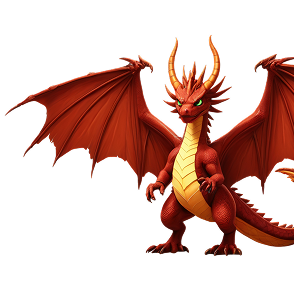
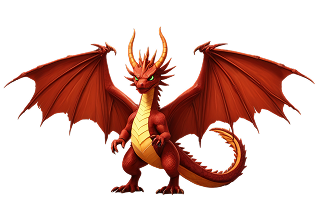
update container

diff --git a/src/partials/header.html b/src/partials/header.html
@@ -65,41 +65,43 @@
 
 <div class="burger-backdrop">
   <div class="burger-menu">
-    <div class="menu-blur"></div>
-    <button class="menu-close-btn" type="button">
-      <svg
-        class="menu-btn-icon"
-        role="img"
-        aria-label="button-close"
-        width="14"
-        height="14"
-      >
-        <use href="./img/icon/sprite.svg#icon-close"></use>
-      </svg>
-    </button>
-    <nav>
-      <ul class="menu-list">
-        <li class="menu-item">
-          <a href="#benefits" class="menu-link">Benefits</a>
-        </li>
-        <li class="menu-item">
-          <a href="#game-description" class="menu-link">Game Description</a>
-        </li>
-        <li class="menu-item">
-          <a href="#gallery" class="menu-link">Gallery</a>
-        </li>
-        <li class="menu-item">
-          <a href="#key-features" class="menu-link">Key Features</a>
-        </li>
-        <li class="menu-item">
-          <a href="#main-characters-description" class="menu-link"
-            >Main Characters Description</a
-          >
-        </li>
-        <li class="menu-item">
-          <a href="#reviews" class="menu-link">Reviews</a>
-        </li>
-      </ul>
-    </nav>
+    <div class="burger-menu-container">
+      <div class="menu-blur"></div>
+      <button class="menu-close-btn" type="button">
+        <svg
+          class="menu-btn-icon"
+          role="img"
+          aria-label="button-close"
+          width="14"
+          height="14"
+        >
+          <use href="./img/icon/sprite.svg#icon-close"></use>
+        </svg>
+      </button>
+      <nav>
+        <ul class="menu-list">
+          <li class="menu-item">
+            <a href="#benefits" class="menu-link">Benefits</a>
+          </li>
+          <li class="menu-item">
+            <a href="#game-description" class="menu-link">Game Description</a>
+          </li>
+          <li class="menu-item">
+            <a href="#gallery" class="menu-link">Gallery</a>
+          </li>
+          <li class="menu-item">
+            <a href="#key-features" class="menu-link">Key Features</a>
+          </li>
+          <li class="menu-item">
+            <a href="#main-characters-description" class="menu-link"
+              >Main Characters Description</a
+            >
+          </li>
+          <li class="menu-item">
+            <a href="#reviews" class="menu-link">Reviews</a>
+          </li>
+        </ul>
+      </nav>
+    </div>
   </div>
 </div>

diff --git a/src/scss/header.scss b/src/scss/header.scss
@@ -12,14 +12,14 @@
   flex-direction: row;
   align-items: center;
   justify-content: start;
-  min-width: 320px;
+  max-width: 320px;
   margin: 0 auto;
   padding: 16px 24px;
 
   @include media(desktop) {
     justify-content: flex-start;
     gap: 45.6px;
-    width: 1200px;
+    max-width: 1200px;
     padding: 24px 32px 32px 32px;
   }
 }
@@ -106,8 +106,6 @@
   height: 100vh;
   visibility: hidden;
 
-  padding: 88px 24px 16px 24px;
-
   background-color: aliceblue;
 
   transform: translateX(100%);
@@ -123,7 +121,11 @@
     background-image: url('../img/img/header/image_26@2x.png');
   }
 }
-
+.burger-menu-container {
+  padding: 88px 24px 16px 24px;
+  max-width: 320px;
+  margin: 0 auto;
+}
 .menu-blur {
   position: absolute;
   top: 0;

diff --git a/src/scss/hero.scss b/src/scss/hero.scss
@@ -63,7 +63,7 @@
 .hero-container {
   position: relative;
 
-  min-width: 320px;
+  max-width: 320px;
   margin: 0 auto;
   padding: 85px 24px 16px 24px;
 
@@ -71,9 +71,9 @@
     display: flex;
     flex-direction: column;
     align-items: flex-start;
-    width: 100%;
+
     max-width: 1200px;
-    margin: 0 auto;
+
     padding: 170px 128px 72px;
   }
 }
@@ -159,6 +159,7 @@
 
 .hero-btn:hover,
 .hero-btn:focus {
+  transform: scale(1.02);
   color: $_hero_btn_text_hover_active;
   background-color: $_hero_btn_bg_hover;
 }

diff --git a/src/scss/benefits.scss b/src/scss/benefits.scss
@@ -1,11 +1,7 @@
 .benefits {
   position: relative;
 
-  width: 100%;
-
   background: $_benefits_background;
-
-  overflow: hidden;
 }
 
 .benefits-scroll {
@@ -24,7 +20,8 @@
 }
 .benefits-container {
   position: relative;
-  min-width: 320px;
+
+  max-width: 320px;
   margin: 0 auto;
   padding: 24px;
 
@@ -181,8 +178,8 @@
 .benefits-dragon {
   position: absolute;
   right: 0;
-  bottom: 80px;
-  width: 200px;
+  bottom: 130px;
+  width: 159px;
   height: auto;
 
   @include media(desktop) {

diff --git a/src/scss/game-description.scss b/src/scss/game-description.scss
@@ -18,9 +18,9 @@
 }
 
 .game-description-container {
-  min-width: 320px;
+  max-width: 320px;
   margin: 0 auto;
-  padding: 24.2px;
+  padding: 24px;
 
   background-image: url('../img/img/game_description/Game_Description_BG_mobile.png');
   background-repeat: no-repeat;
@@ -39,9 +39,8 @@
     }
   }
   @include media(desktop) {
-    width: 100%;
     max-width: 1200px;
-    margin: 0 auto;
+
     padding-top: 80px;
     padding-bottom: 80px;
     padding-left: 129px;

diff --git a/src/scss/main-characters-description.scss b/src/scss/main-characters-description.scss
@@ -17,7 +17,7 @@
 }
 
 .main-characters-container {
-  min-width: 320px;
+  max-width: 320px;
   margin: 0 auto;
   padding: 24px 24px 0 24px;
   background-image: url('../img/img/main_characters_description/Main_Characters_Description_BG_mobile.png');
@@ -37,7 +37,6 @@
     }
   }
   @include media(desktop) {
-    width: 100%;
     max-width: 1200px;
 
     padding: 80px 19px;

diff --git a/src/scss/privacy-policy.scss b/src/scss/privacy-policy.scss
@@ -22,7 +22,8 @@ main {
 
 .legal-section-container h1 {
   margin: 40px 0 16px 0;
-
+  max-width: 320px;
+  margin: 0 auto;
   font-weight: 700;
   font-size: 24px;
   line-height: 1em;
@@ -30,7 +31,7 @@ main {
   font-family: Fredoka, sans-serif;
 
   @include media(desktop) {
-    margin: 74px 0 40px 0;
+    max-width: 1200px;
 
     font-size: 48px;
   }

diff --git a/src/scss/modal_cookies.scss b/src/scss/modal_cookies.scss
@@ -21,7 +21,8 @@
   display: flex;
   flex-direction: column;
   align-items: center;
-  width: 100%;
+  max-width: 320px;
+  margin: 0 auto;
   padding: 16px 24px;
 
   background: $_Popup_cookies_bg_color;
@@ -32,7 +33,7 @@
 
   @include media(desktop) {
     left: 50%;
-
+    max-width: 1200px;
     padding: 56px 32px;
 
     transform: translateX(-50%);

diff --git a/src/scss/footer.scss b/src/scss/footer.scss
@@ -3,6 +3,9 @@
 }
 
 .footer-container {
+  width: 100%;
+  max-width: 320px;
+  margin: 0 auto;
   display: flex;
   flex-direction: column;
   justify-content: center;
@@ -11,6 +14,7 @@
   padding: 24px;
 
   @include media(desktop) {
+    max-width: 1200px;
     gap: 56px;
     padding: 40px 117.5px;
   }

diff --git a/src/scss/gallery.scss b/src/scss/gallery.scss
@@ -19,7 +19,8 @@
 }
 
 .gallery-container {
-  min-width: 320px;
+  width: 100%;
+  max-width: 320px;
   margin: 0 auto;
   padding: 24px;
   background-image: none;
@@ -35,7 +36,7 @@
   }
   @include media(desktop) {
     padding: 80px 61px;
-    width: 100%;
+
     max-width: 1200px;
   }
 }

diff --git a/src/scss/key-features.scss b/src/scss/key-features.scss
@@ -16,7 +16,7 @@
 }
 
 .key-features-container {
-  min-width: 320px;
+  max-width: 320px;
   margin: 0 auto;
   padding: 24px;
 
@@ -32,7 +32,6 @@
     }
   }
   @include media(desktop) {
-    width: 100%;
     height: 1122px;
     max-width: 1200px;
     padding: 80px 178px 80px 420px;

diff --git a/src/scss/reviews.scss b/src/scss/reviews.scss
@@ -33,7 +33,7 @@
 }
 
 .reviews-container {
-  min-width: 320px;
+  max-width: 320px;
   margin: 0 auto;
   padding: 24px 0;
 
@@ -56,7 +56,6 @@
     flex-direction: column;
     align-items: center;
 
-    width: 100%;
     max-width: 1200px;
     padding: 80px 175px 184px 175px;
   }
